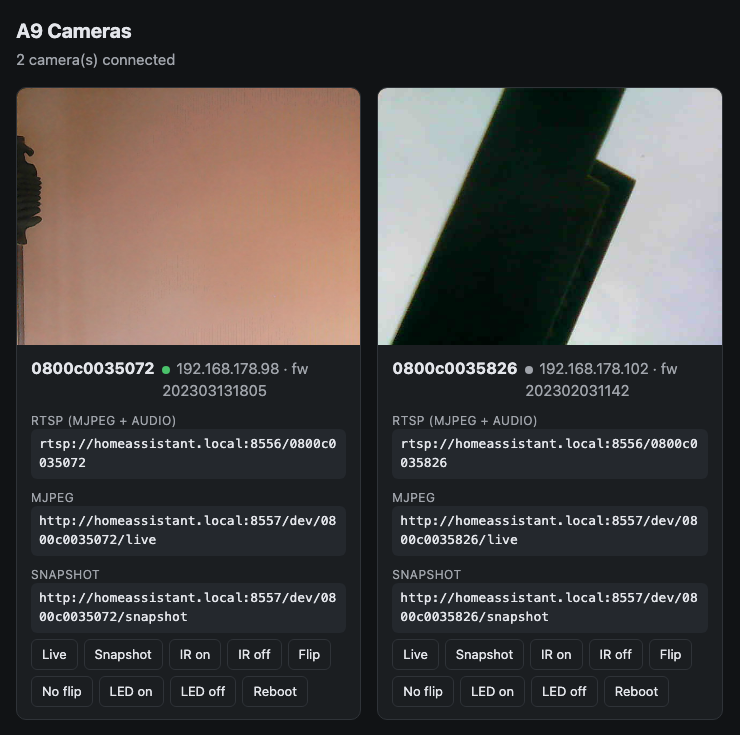
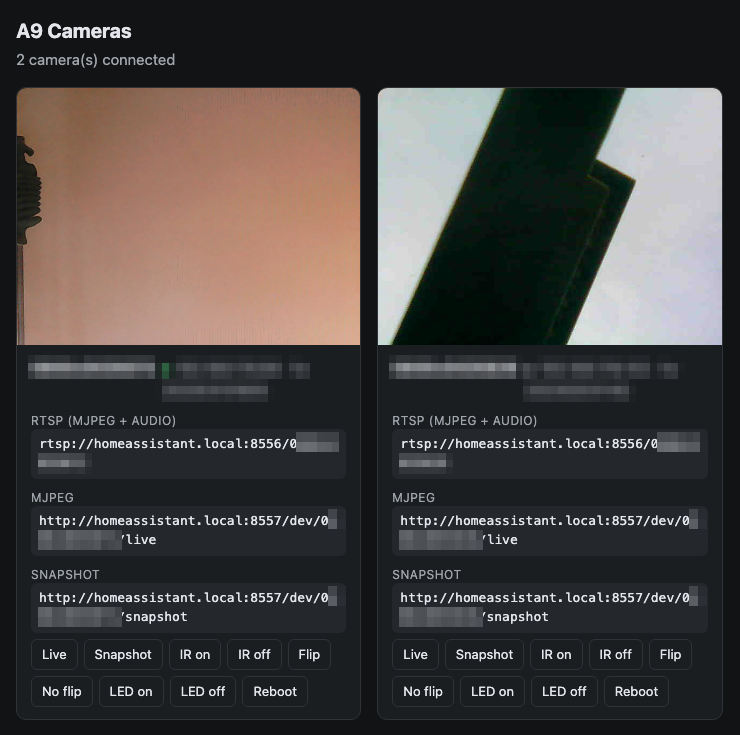
README: screenshots without IDs and IPs, and the HA device page

diff --git a/README.md b/README.md
@@ -53,6 +53,9 @@ I did not test these projects.
 
 For each camera, a device with:
 
+<img width="640" alt="A camera device in Home Assistant with its entities" src="https://raw.githubusercontent.com/dbuezas/a9-camera-ha-add-on/main/docs/device.png">
+
+
 | Entity | What it does |
 | --- | --- |
 | Camera | Live MJPEG video and snapshots |
